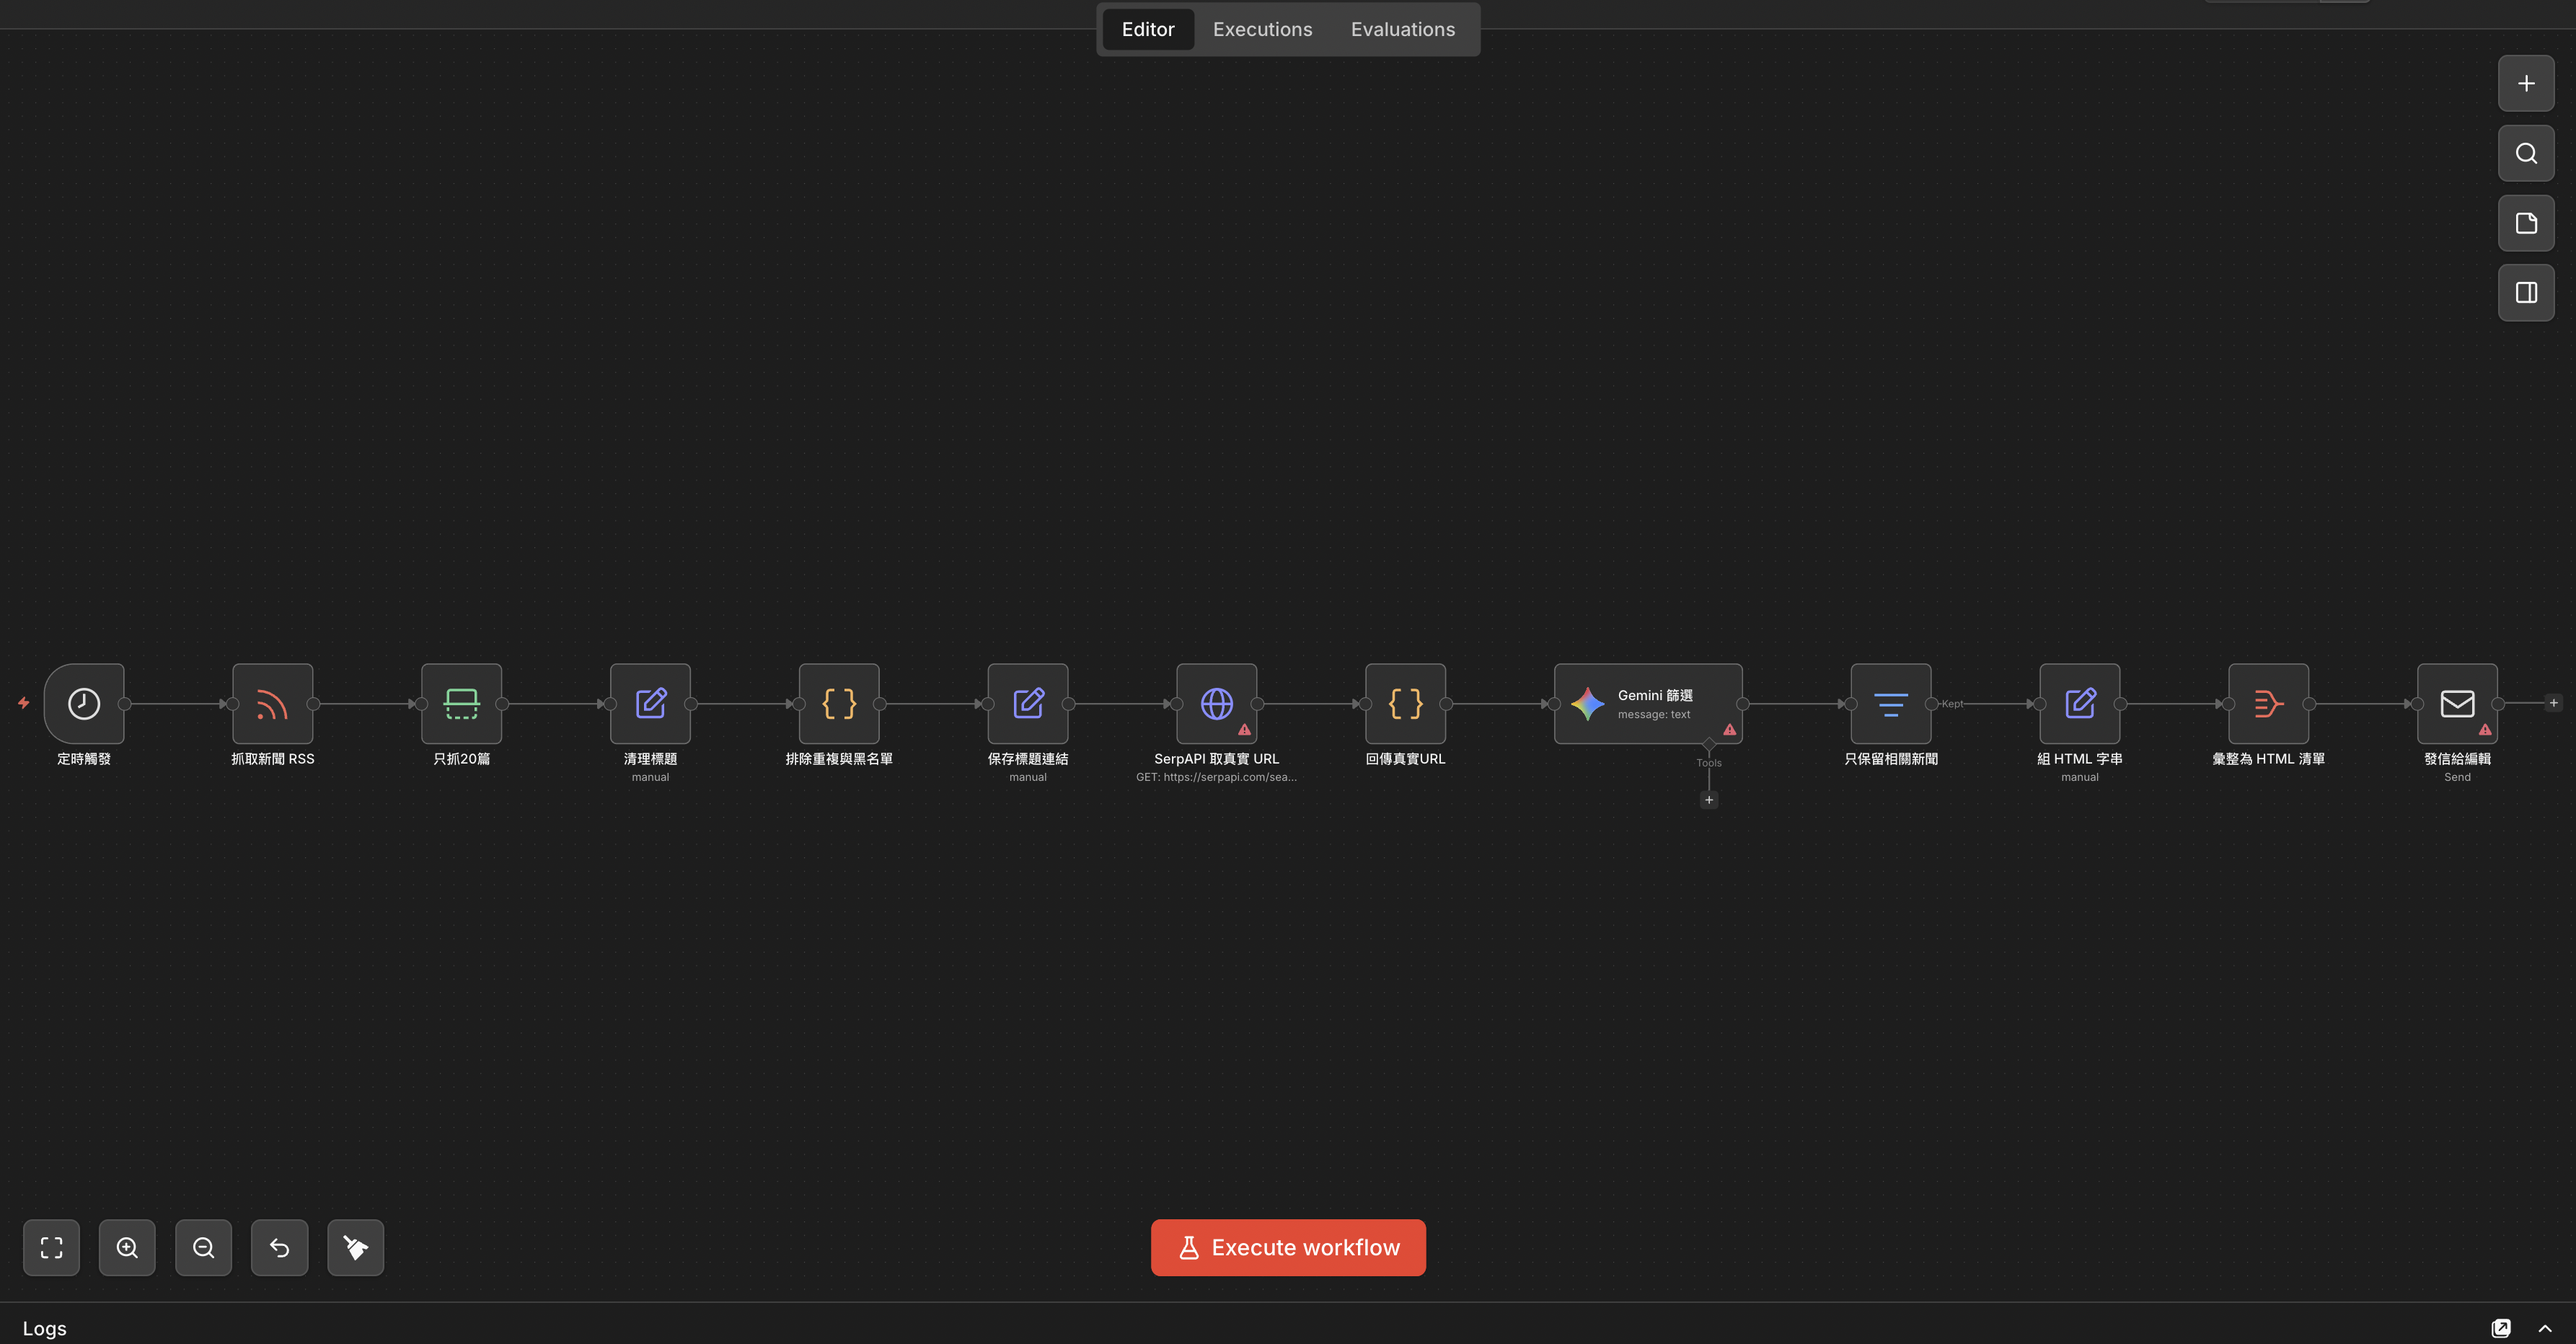
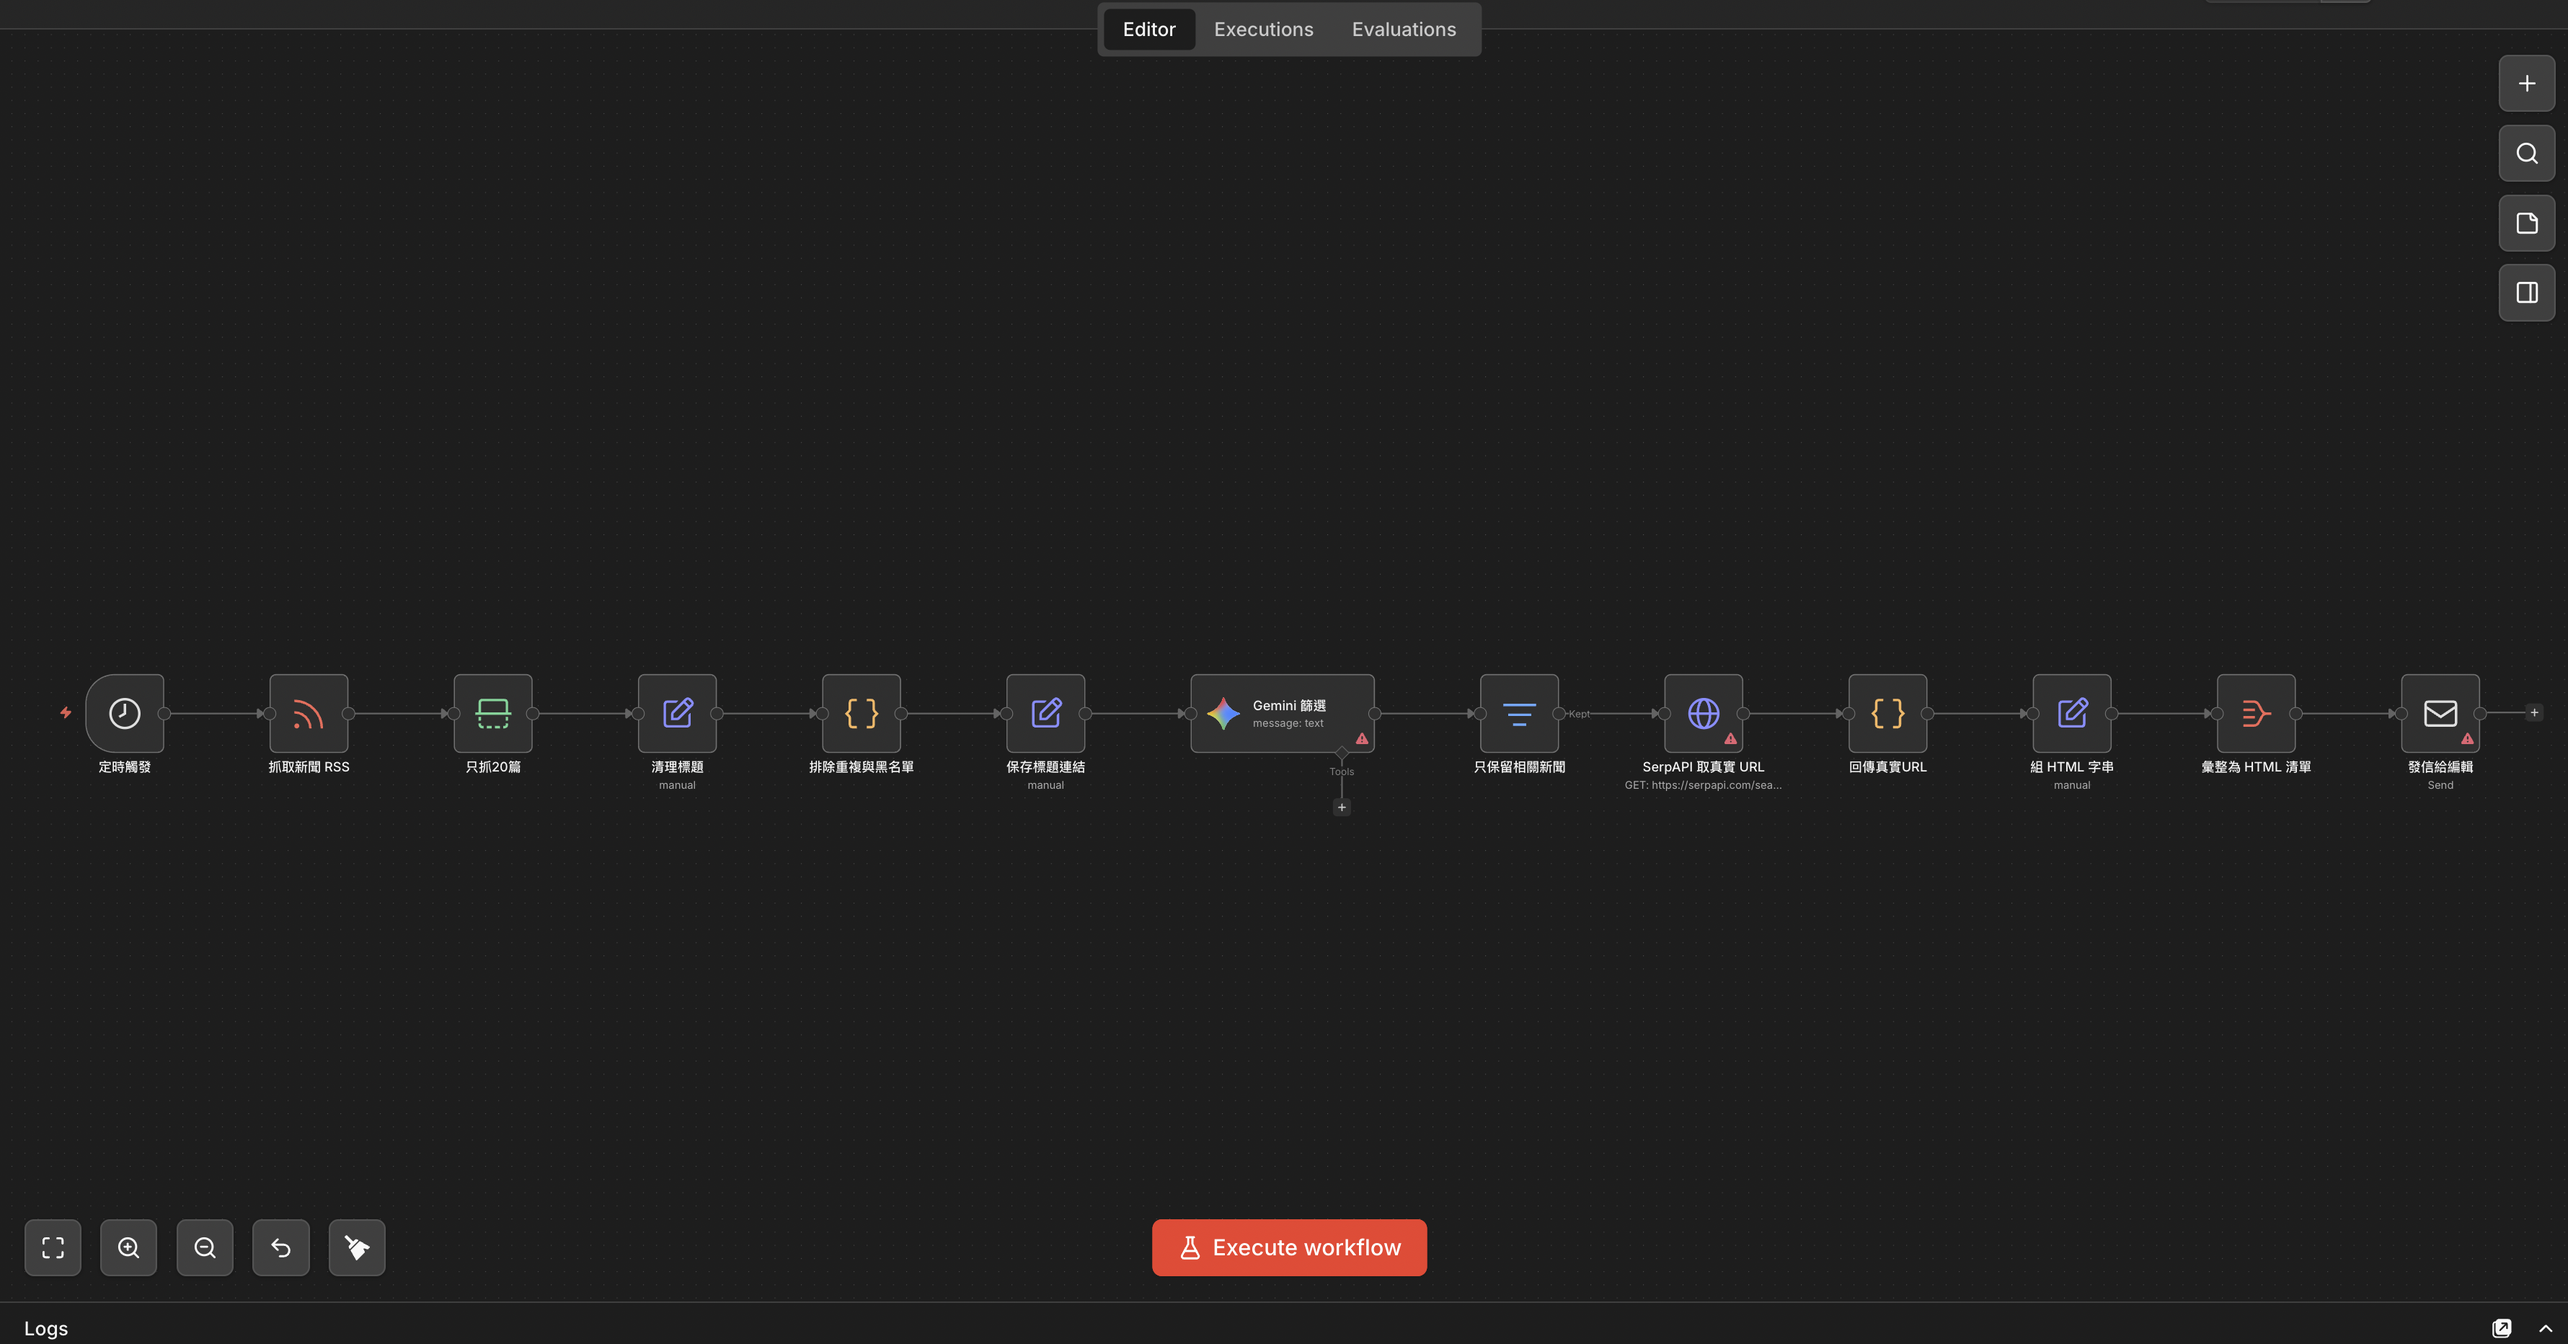
fix: move SERP after Gemini filter to reduce API quota usage 2

diff --git a/README.md b/README.md
@@ -22,7 +22,7 @@
 
 ![news-digest workflow](docs/images/news-digest.png)
 
-Cron 觸發 → RSS 抓取 → SerpAPI 取真實 URL → Gemini 篩選（isRelevant + 分類 + 摘要）→ 組 HTML 清單 → 寄信給編輯。信件內每篇文章有兩個按鈕：**[✍ 生成草稿+封面圖]** 與 **[✍ 生成草稿]**，點擊即觸發 Webhook。
+Cron 觸發 → RSS 抓取 → Gemini 篩選（isRelevant + 分類 + 摘要）→ 過濾不相關 → SerpAPI 取真實 URL（僅對通過篩選的文章）→ 組 HTML 清單 → 寄信給編輯。信件內每篇文章有兩個按鈕：**[✍ 生成草稿+封面圖]** 與 **[✍ 生成草稿]**，點擊即觸發 Webhook。
 
 ### Workflow 2 — Webhook 接收器（`draft-trigger.json`）
 
@@ -169,7 +169,7 @@ An n8n-based content automation pipeline. Periodically fetches RSS news, uses Ge
 
 ![news-digest workflow](docs/images/news-digest.png)
 
-Cron → RSS fetch → SerpAPI URL resolution → Gemini filter (isRelevant + category + summary) → HTML digest → email to editor. Each article has two buttons: **[✍ Generate draft + cover]** and **[✍ Generate draft]**, which trigger the webhook on click.
+Cron → RSS fetch → Gemini filter (isRelevant + category + summary) → drop irrelevant → SerpAPI URL resolution (only for articles that pass) → HTML digest → email to editor. Each article has two buttons: **[✍ Generate draft + cover]** and **[✍ Generate draft]**, which trigger the webhook on click.
 
 ### Workflow 2 — Webhook receiver (`draft-trigger.json`)
 
